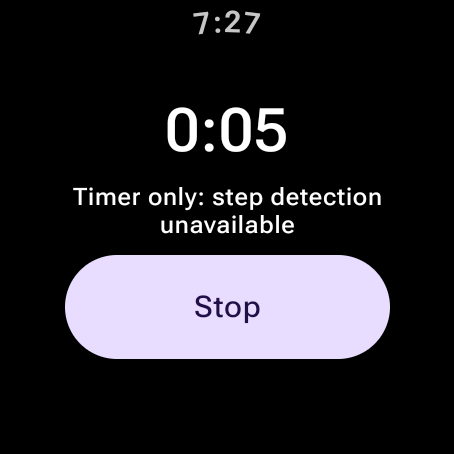
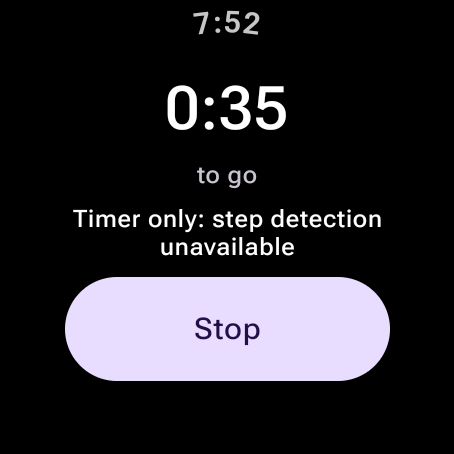
feat(ui): countdown, time-reached tick and Start pill (SPEC C1-C3)
In-progress counts down to the 40 s target, then shows the total. A fourth vibration, three quick ticks, marks the target; it is scheduled with the start pulse, cancelled by an earlier end, and keeps the 3 s gap. Settings drops the always-on placeholder. SPEC-APP amended and the changes recorded in docs/SPEC-CHANGELOG.md (C1-C3). Start wash is now a pill whose corners tighten on press (Material 3 Expressive shape morph); the icon buttons use Wear's animated shapes. Audit and screenshots updated.

Changed region(s): [[0.1233, 0.37, 0.8634, 0.8634], [0.37, 0.185, 0.6476, 0.3392], [0.4934, 0.0308, 0.5859, 0.0925]]

diff --git a/wear/src/main/java/com/hapticwash/ui/MainActivity.kt b/wear/src/main/java/com/hapticwash/ui/MainActivity.kt
@@ -18,12 +18,13 @@ import androidx.compose.animation.core.CubicBezierEasing
 import androidx.compose.animation.core.LinearEasing
 import androidx.compose.animation.core.Spring
 import androidx.compose.animation.core.animateFloatAsState
+import androidx.compose.animation.core.animateIntAsState
 import androidx.compose.animation.core.spring
 import androidx.compose.animation.core.tween
 import androidx.compose.foundation.interaction.MutableInteractionSource
 import androidx.compose.foundation.interaction.collectIsPressedAsState
 import androidx.compose.foundation.Canvas
-import androidx.compose.foundation.shape.CircleShape
+import androidx.compose.foundation.shape.RoundedCornerShape
 import androidx.compose.foundation.layout.height
 import androidx.compose.foundation.layout.size
 import androidx.compose.ui.geometry.Offset
@@ -34,6 +35,7 @@ import androidx.compose.ui.res.painterResource
 import androidx.compose.ui.semantics.contentDescription
 import androidx.wear.compose.material3.FilledTonalIconButton
 import androidx.wear.compose.material3.Icon
+import androidx.wear.compose.material3.IconButtonDefaults
 import com.hapticwash.session.StepCoverage
 import androidx.compose.foundation.layout.Arrangement
 import androidx.compose.foundation.layout.Box
@@ -92,6 +94,7 @@ import androidx.wear.compose.navigation.composable
 import androidx.wear.compose.navigation.rememberSwipeDismissableNavController
 import com.hapticwash.R
 import com.hapticwash.inference.StepModel
+import com.hapticwash.session.Haptics
 import com.hapticwash.session.History
 import com.hapticwash.session.Settings
 import com.hapticwash.session.StepStatus
@@ -102,18 +105,21 @@ import com.hapticwash.ui.theme.HapticWashTheme
 import kotlinx.coroutines.Dispatchers
 import kotlinx.coroutines.delay
 import kotlinx.coroutines.withContext
+import kotlin.math.ceil
 
 /** Progress ring target. A UI constant: nothing in Coverage reads it. */
-private const val RING_TARGET_S = 40f
+private const val RING_TARGET_S = Haptics.TARGET_MS / 1000f
 
 /** Summary entrance: each row fades and rises over [ROW_MS], [STAGGER_MS] after the one above. */
 private const val ROW_MS = 200f
 private const val STAGGER_MS = 40f
 private const val ENTRANCE_MS = 360 // ROW_MS + 4 × STAGGER_MS, for five rows
 
-/** Start wash: the one large target on the Start screen. */
-private val START_SIZE = 104.dp
-private val START_SIZE_COMPACT = 92.dp
+/** Start wash: the one large target on the Start screen, a pill whose corners tighten while pressed. */
+private val START_HEIGHT = 76.dp
+private val START_HEIGHT_COMPACT = 64.dp
+private const val START_CORNER_PCT = 50
+private const val START_CORNER_PRESSED_PCT = 30
 
 /** Summary ring: diameter, stroke, and the gap between Step arcs. */
 private val RING_SIZE = 124.dp
@@ -217,7 +223,10 @@ private fun StartScreen(onWash: () -> Unit, onHistory: () -> Unit, onSettings: (
         // Loads the model off the main thread; also the release smoke check's log line.
         timerOnly = withContext(Dispatchers.Default) { StepModel.bundled(context) == null }
     }
-    val (press, pressScale) = rememberPressScale()
+    val press = remember { MutableInteractionSource() }
+    val pressed by press.collectIsPressedAsState()
+    // Material 3 Expressive press feedback: the pill's corners tighten under the finger and spring back.
+    val corner by animateIntAsState(if (pressed) START_CORNER_PRESSED_PCT else START_CORNER_PCT, spring(dampingRatio = 1f, stiffness = Spring.StiffnessMedium))
     // One thing to do here, so one large target; History and Settings are rarely needed and stay small.
     ScreenScaffold { padding ->
         Column(
@@ -227,20 +236,20 @@ private fun StartScreen(onWash: () -> Unit, onHistory: () -> Unit, onSettings: (
         ) {
             Button(
                 onClick = ::start,
-                // Smaller in Timer-only, so the notice fits without squeezing the 48 dp icon buttons (§4.1.3).
-                modifier = Modifier.size(if (timerOnly) START_SIZE_COMPACT else START_SIZE).then(pressScale),
-                shape = CircleShape,
+                // Shorter in Timer-only, so the notice fits without squeezing the 48 dp icon buttons (§4.1.3).
+                modifier = Modifier.fillMaxWidth(0.8f).height(if (timerOnly) START_HEIGHT_COMPACT else START_HEIGHT),
+                shape = RoundedCornerShape(corner),
                 interactionSource = press,
             ) {
-                Column(Modifier.fillMaxWidth(), horizontalAlignment = Alignment.CenterHorizontally) {
+                Row(Modifier.fillMaxWidth(), horizontalArrangement = Arrangement.spacedBy(8.dp, Alignment.CenterHorizontally), verticalAlignment = Alignment.CenterVertically) {
                     Icon(painterResource(R.drawable.ic_wash), contentDescription = null)
-                    Text(stringResource(if (status.running) R.string.session_running else R.string.start_wash), textAlign = TextAlign.Center)
+                    Text(stringResource(if (status.running) R.string.session_running else R.string.start_wash), style = MaterialTheme.typography.titleMedium)
                 }
             }
             if (timerOnly) Notice(stringResource(R.string.timer_only_short))
             Row(horizontalArrangement = Arrangement.spacedBy(12.dp)) {
-                FilledTonalIconButton(onHistory) { Icon(painterResource(R.drawable.ic_history), stringResource(R.string.history)) }
-                FilledTonalIconButton(onSettings) { Icon(painterResource(R.drawable.ic_settings), stringResource(R.string.settings)) }
+                FilledTonalIconButton(onHistory, shapes = IconButtonDefaults.animatedShapes()) { Icon(painterResource(R.drawable.ic_history), stringResource(R.string.history)) }
+                FilledTonalIconButton(onSettings, shapes = IconButtonDefaults.animatedShapes()) { Icon(painterResource(R.drawable.ic_settings), stringResource(R.string.settings)) }
             }
         }
     }
@@ -286,8 +295,16 @@ private fun WashScreen(onEnd: (Long) -> Unit) {
                 verticalArrangement = Arrangement.spacedBy(8.dp),
                 horizontalAlignment = Alignment.CenterHorizontally,
             ) {
-                // Tabular digits, so the time doesn't shift sideways as it ticks.
-                Text(duration(elapsedS), style = MaterialTheme.typography.displayMedium.copy(fontFeatureSettings = "tnum"))
+                // Counts down to the target, then shows the total. Tabular digits, so the time doesn't shift sideways as it ticks.
+                Text(
+                    duration(if (full) elapsedS else ceil(RING_TARGET_S - elapsedS)),
+                    style = MaterialTheme.typography.displayMedium.copy(fontFeatureSettings = "tnum"),
+                )
+                Text(
+                    if (full) stringResource(R.string.target_reached, RING_TARGET_S.toInt()) else stringResource(R.string.time_left),
+                    color = MaterialTheme.colorScheme.onSurfaceVariant,
+                    style = MaterialTheme.typography.bodySmall,
+                )
                 if (status.timerOnly) Notice(stringResource(R.string.timer_only))
                 // Wide: wet, soapy fingers miss small targets. Answers the tap at once, before the Wash has finished saving.
                 Button(

diff --git a/wear/src/main/java/com/hapticwash/session/Haptics.kt b/wear/src/main/java/com/hapticwash/session/Haptics.kt
@@ -15,7 +15,8 @@ import kotlinx.coroutines.launch
 enum class Pulse(vararg val timings: Long) {
     START(0, 80),
     END(0, 80, 120, 80),
-    MISSED(0, 600);
+    MISSED(0, 600),
+    TARGET(0, 40, 80, 40, 80, 40);
 
     val durationMs get() = timings.sum()
 }
@@ -28,8 +29,12 @@ object Haptics {
     /** Minimum spacing between vibrations (§4.1.6). */
     const val GAP_MS = 3000L
 
+    /** Time-reached target (WHO: wash for 40–60 s). In-progress counts down to it. */
+    const val TARGET_MS = 40_000L
+
+    /** The start pulse, then the time-reached ticks; a Wash that ends first cancels the ticks. */
     fun onStart(source: String, hapticsOn: Boolean) =
-        if (hapticsOn && source == "sensor") listOf(Buzz(0, Pulse.START)) else emptyList()
+        if (hapticsOn && source == "sensor") listOf(Buzz(0, Pulse.START), Buzz(TARGET_MS, Pulse.TARGET)) else emptyList()
 
     fun onEnd(wash: WashSession, hapticsOn: Boolean): List<Buzz> {
         if (!hapticsOn || wash.source != "sensor") return emptyList()
@@ -41,7 +46,9 @@ object Haptics {
 
 /**
  * Plays [Buzz] lists. Process-wide so a pending missed-step pulse outlives the service and a
- * new Wash cancels it (nothing vibrates mid-Wash). Haptics setting re-read at fire time.
+ * new Wash cancels it; the end of a Wash likewise cancels its pending time-reached ticks. If a
+ * Wash ends within 3 s of the ticks, the end pulses wait for the gap. Haptics setting re-read at
+ * fire time.
  */
 object Buzzer {
     private val scope = CoroutineScope(SupervisorJob() + Dispatchers.Default)

diff --git a/wear/src/test/java/com/hapticwash/session/HapticsTest.kt b/wear/src/test/java/com/hapticwash/session/HapticsTest.kt
@@ -35,6 +35,14 @@ class HapticsTest {
         assertEquals(emptyList<Buzz>(), Haptics.onEnd(missed.copy(source = "replay"), hapticsOn = true))
         assertEquals(emptyList<Buzz>(), Haptics.onStart("sensor", hapticsOn = false))
         assertEquals(emptyList<Buzz>(), Haptics.onStart("replay", hapticsOn = true))
-        assertEquals(listOf(Buzz(0, Pulse.START)), Haptics.onStart("sensor", hapticsOn = true))
+        assertEquals(listOf(Pulse.START, Pulse.TARGET), Haptics.onStart("sensor", hapticsOn = true).map { it.pulse })
+    }
+
+    @Test
+    fun timeReachedTicksAtTheTargetAndIsItsOwnPattern() {
+        val (start, target) = Haptics.onStart("sensor", hapticsOn = true)
+        assertEquals(Haptics.TARGET_MS, target.atMs)
+        assertTrue(target.atMs >= start.atMs + Pulse.START.durationMs + Haptics.GAP_MS)
+        assertEquals(Pulse.entries.size, Pulse.entries.map { it.timings.toList() }.toSet().size)
     }
 }

diff --git a/docs/UX_AUDIT.md b/docs/UX_AUDIT.md
@@ -35,10 +35,10 @@ Columns are the screens: **St** Start, **IP** In-progress, **Su** Summary, **Hi*
 |---|---|---|---|---|---|---|---|
 | 1 | Glanceable < 5 s | ✓ | ✓ | ✓ | ✓ | ✓ | Each screen has one header and short lines. Summary is five rows of a Step name and its Status. |
 | 2 | Round-safe, scaling list, `TimeText` | ✓ | ✓ | ✓ | ✓ | ✓ | Lists use `TransformingLazyColumn`, the Wear Material 3 successor to `ScalingLazyColumn`. `TimeText` comes from `AppScaffold` on every screen. Start and In-progress are centred and not scrollable. The ring leaves a 60° gap at the top for `TimeText` (fixed in this audit: it used to run under the clock). |
-| 3 | Touch targets ≥ 48 dp; one primary action | ✓ | ✓ | — | ✓ | ✓ | List buttons are 203 × 52 dp; Stop is 162 × 52 dp (widened after review); History rows are ≥ 52 dp tall. Start wash is a 104 dp round button (92 dp in Timer-only), History and Settings 52 dp tonal icon buttons (redesign, below). Start's primary action is Start wash; In-progress's is Stop. Summary, History and Settings are lists with no primary action, so none has more than one. |
+| 3 | Touch targets ≥ 48 dp; one primary action | ✓ | ✓ | — | ✓ | ✓ | List buttons are 203 × 52 dp; Stop is 162 × 52 dp (widened after review); History rows are ≥ 52 dp tall. Start wash is a 162 × 76 dp pill (162 × 64 dp in Timer-only), History and Settings 52 dp tonal icon buttons (redesign, below). Start's primary action is Start wash; In-progress's is Stop. Summary, History and Settings are lists with no primary action, so none has more than one. |
 | 4 | One-tap start | ✓ | — | — | — | — | Start wash is the large centre button. A single tap starts the service and opens In-progress. The Tile and the complication start a Wash from outside the app (below). |
 | 5 | No text entry; dialogs ≤ 2 options; depth ≤ 2 | ✓ | ✓ | ✓ | ✓ | ✓ | No text fields. The only dialog is the system notification permission (Allow / Don't allow), now asked on the first Start tap. Wrist side is two radio buttons. Deepest paths: Start → In-progress → Summary (In-progress is popped) and Start → History → Summary. Swipe-to-dismiss works from In-progress, Summary, History and Settings. A swipe mid-Wash leaves it running; Start then shows "Wash in progress" and returns to In-progress. |
-| 6 | Haptics, patterns, ≤ 1 per 3 s | — | ✓ | ◐ | — | ✓ | From `dumpsys vibrator_manager`: start 80 ms; end 80 + 120 + 80 ms; missed-step 600 ms, starting 3.2 s after the end pulses start (13 s Wash, all `NOT_DETECTED`). A too-short Wash and a Timer-only Wash each got only start and end. Replays are silent. The Haptics setting is read at fire time (unit-tested in `HapticsTest`). See note A. |
+| 6 | Haptics, patterns, ≤ 1 per 3 s | — | ✓ | ◐ | — | ✓ | Since C1 (below) a fourth pattern, time reached, ticks at 40 s. From `dumpsys vibrator_manager`: start 80 ms; end 80 + 120 + 80 ms; missed-step 600 ms, starting 3.2 s after the end pulses start (13 s Wash, all `NOT_DETECTED`). A too-short Wash and a Timer-only Wash each got only start and end. Replays are silent. The Haptics setting is read at fire time (unit-tested in `HapticsTest`). See note A. |
 | 7 | Ambient / screen-off | — | ✓ | — | — | — | `KEYCODE_SLEEP` mid-Wash put the device in `Dozing`: 17 windows logged in 25 s (1.5 s stride), and on wake the Wash was still running at 0:45. No crash in logcat. |
 | 8 | Battery honesty | — | ✓ | — | — | ✓ | After Stop: 0 active `sensorservice` connections for the app, and the `HapticWash:session` wake lock was released in the same ms the Wash ended. Always-on isn't offered in M4 (the disabled "Coming later" switch was removed in the polish pass below). It arrives with its battery warning in M5. |
 | 9 | No result as certainty | ✓ | ✓ | ✓ | ✓ | ✓ | "Looks covered", "May have been brief", "Not detected", "Too short to estimate", "n of 5 look covered". Enforced by `LanguageTest` (D29). |
@@ -135,7 +135,7 @@ through the watch face editor. No new permission: `ManifestTest` passes, and the
 Same day, same AVD, after the Tile and complication. `MainActivity.kt`, `strings.xml` and two
 icons.
 
-- **Start** is one large round Start wash button with a drop icon, and History and Settings as
+- **Start** is one large Start wash button with a drop icon (first round, now a pill: see below), and History and Settings as
   52 dp tonal icon buttons under it. The screen no longer scrolls. In Timer-only the button is
   92 dp and the notice reads "Timer only", so the icon buttons keep 52 dp (first try squeezed
   them to about 33 dp). While a Wash runs the button reads "Wash in progress".
@@ -149,14 +149,31 @@ Screenshots retaken: Start, Start (Timer-only, corrupt-model build again; the re
 restored and loads), Summary (mixed) and scrolled. `./gradlew :wear:testDebugUnitTest`: 32 tests,
 0 failures, 1 skipped.
 
-**Not done, needs a spec decision:**
-- Countdown and a completion tap: M4 asks for elapsed time on In-progress, and §4.1.6 defines
-  exactly three vibration patterns.
+**Not done:**
 - A five-segment pacing ring on In-progress: may read as naming a Step during the Wash.
 - A weekly strip on History: History keeps the last 20 Washes (M4), so weekly counts would
   undercount.
-- **Always-on placeholder:** M4 lists "always-on toggle placeholder" under Settings. The polish
-  pass removed the disabled switch; restore it or amend M4.
+
+## Spec changes C1–C3 and the Start pill
+
+The countdown, the time-reached ticks and the always-on placeholder needed SPEC-APP changes;
+they are recorded in [SPEC-CHANGELOG](SPEC-CHANGELOG.md) as C1–C3.
+
+- **In-progress (C2)** counts down to the 40 s target ("0:35 / to go"), then shows the total
+  ("0:43 / 40 s reached"). The ring, when on, is unchanged.
+- **Time reached (C1)**, from `dumpsys vibrator_manager` on a 43 s Wash that ended with a Step not
+  detected: start 07:49:23.05; ticks (40 ms on, 80 ms off, three times) 07:50:03.05, 40.0 s after
+  the start; end pulses 07:50:06.83, 3.8 s after the ticks; missed-step pulse 07:50:10.11. Every
+  gap is ≥ 3 s. `HapticsTest` also checks the tick time and that all four patterns differ.
+- **Settings (C3):** no always-on placeholder, as already built.
+- **Start wash is a pill** with the drop icon and label side by side, 80 % of the width. On press
+  its corners tighten from 50 % to 30 % and spring back with no bounce (Material 3 Expressive shape
+  morph); History and Settings use Wear's own `IconButtonDefaults.animatedShapes()`. In Timer-only
+  the pill is 64 dp tall; `uiautomator` bounds: pill 162 × 64 dp, icon buttons 52 × 52 dp.
+
+Screenshots retaken: Start, Start (Timer-only), In-progress (ring off, ring on, Timer-only). The
+Timer-only ones come from the corrupt-model build again; the real model was restored.
+`./gradlew :wear:testDebugUnitTest`: 33 tests, 0 failures, 1 skipped.
 
 ## Other M4 checks
 

diff --git a/docs/SPEC-CHANGELOG.md b/docs/SPEC-CHANGELOG.md
@@ -1,0 +1,38 @@
+# SPEC-APP changelog
+
+Changes to [SPEC-APP.md](SPEC-APP.md) after M4, newest first. Each entry says what changed,
+why, and where it is implemented. The Core spec is unaffected unless an entry says so.
+
+## 2026-09-30 — UX redesign (branch `feat/ui-haptics`)
+
+Accepted on the rule "spec changes are welcome when they give better functionality and UX".
+
+### C1 — §4.1.6: a fourth vibration, "time reached"
+
+- **Was:** three patterns (start, end, missed step).
+- **Now:** also three quick ticks (40 ms on, 80 ms off) when the Wash reaches the 40 s target.
+  The 3 s minimum spacing is unchanged.
+- **Why:** hands are wet and eyes are on the sink, so the wrist should say when enough time has
+  passed, as Apple's Handwashing timer does. 40 s is the low end of WHO's 40–60 s.
+- **How:** `Haptics.onStart` schedules the ticks at `TARGET_MS` with the start pulse. A Wash that
+  ends earlier cancels them (`Buzzer.play` cancels pending buzzes). If a Wash ends within 3 s of
+  the ticks, the end pulses wait for the gap. Replays and the Haptics setting behave as for the
+  other patterns. `HapticsTest` checks the timing and that every pattern is distinct.
+
+### C2 — M4 In-progress: count down to the target, then elapsed
+
+- **Was:** "elapsed time + subtle progress".
+- **Now:** time left to the 40 s target ("0:24 to go"), then the total ("0:43 · 40 s reached").
+  The optional progress ring is unchanged and still turns `tertiary` when full.
+- **Why:** a countdown gives a finish line, and the ring is off by default, so the number is
+  the only goal most people see. Past the target the total stays visible, so nothing is lost.
+- **How:** `WashScreen` in `MainActivity.kt`; the target is `Haptics.TARGET_MS`, shared with C1.
+
+### C3 — M4 Settings: no always-on placeholder
+
+- **Was:** Settings includes an "always-on toggle placeholder".
+- **Now:** Settings has wrist side, haptics and progress ring. Always-on appears with M5, with its
+  battery warning (§4.1.8).
+- **Why:** a disabled switch that does nothing costs a scroll and a moment of thought on a small
+  screen. It was removed in the polish pass (`UX_AUDIT.md`), which this entry makes official.
+- **How:** already implemented in `fcf6652`.

diff --git a/docs/SPEC-APP.md b/docs/SPEC-APP.md
@@ -76,7 +76,8 @@ These are non-negotiable and apply to every screen.
    than two levels.**
 6. **Haptics over sound.** Feedback is vibration. Use short, distinct patterns:
    session start (one short pulse), session end (two short pulses), missed-step
-   notice (one long pulse). Never vibrate more than once per 3 seconds.
+   notice (one long pulse), time reached at the 40 s target (three quick ticks; see
+   [SPEC-CHANGELOG](SPEC-CHANGELOG.md) C1). Never vibrate more than once per 3 seconds.
 7. **Ambient mode.** During an active wash the app must handle ambient/always-on
    transitions without stopping sensor collection or crashing.
 8. **Battery honesty.** Continuous 50 Hz accelerometer + gyroscope is expensive. Manual
@@ -174,9 +175,10 @@ harness replaces it.
 - Thresholds in a single configuration object, not scattered constants. Defaults:
   `OK` ≥ 4 s cumulative, `BRIEF` ≥ 1.5 s, otherwise `NOT_DETECTED`; minimum session
   duration 10 s for coverage to be shown at all.
-- Compose screens: Start, In-progress (elapsed time + subtle progress), Summary
-  (per-step status), History (last 20 washes), Settings (wrist side, haptics, always-on
-  toggle placeholder).
+- Compose screens: Start, In-progress (time left to the 40 s target, then elapsed time;
+  subtle progress), Summary (per-step status), History (last 20 washes), Settings (wrist
+  side, haptics, progress ring). Always-on gets its setting with M5. See
+  [SPEC-CHANGELOG](SPEC-CHANGELOG.md) C2, C3.
 - Room persistence of sessions and per-step durations.
 - Haptic patterns per §4.1 item 6.
 - Wrist-side setting wired through to the mirroring transform.
